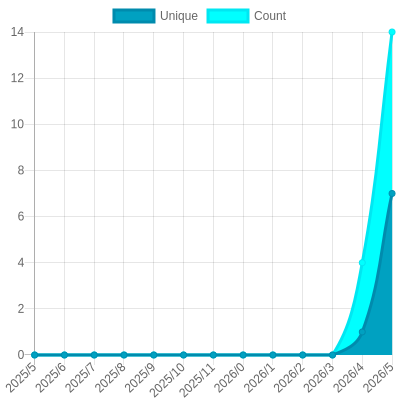
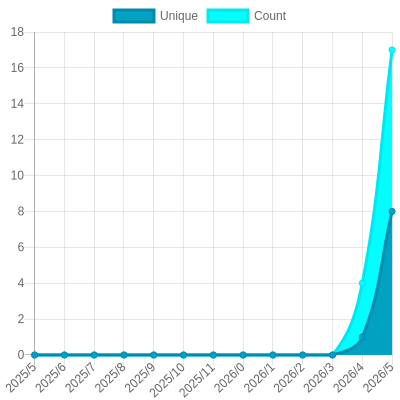
Update views

diff --git a/readme/912692323/year.md b/readme/912692323/year.md
@@ -23,10 +23,10 @@
 			<code>2025/6/1</code>
 		</td>
 		<td>
-			<code>7</code>
+			<code>8</code>
 		</td>
 		<td>
-			<code>14</code>
+			<code>17</code>
 		</td>
 	</tr>
 	<tr>
@@ -164,7 +164,7 @@
 </table>
 
 </details>
-<small><i>Last updated on 2025/6/28 1:24 AM UTC</i></small>
+<small><i>Last updated on 2025/6/28 6:24 AM UTC</i></small>
 
 ## ✂Copy and 📋 Paste
 ### SVG Badge

diff --git a/README.md b/README.md
@@ -117,7 +117,7 @@ The project created and maintained by [gayanvoice](https://github.com/gayanvoice
 	</tr>
 </table>
 
-<small><i>Last updated on 2025/6/28 1:24 AM UTC</i></small>
+<small><i>Last updated on 2025/6/28 6:24 AM UTC</i></small>
 
 ## ✂Copy and 📋 Paste
 ### Total Views Badge

diff --git a/readme/886172486/year.md b/readme/886172486/year.md
@@ -164,7 +164,7 @@
 </table>
 
 </details>
-<small><i>Last updated on 2025/6/28 1:24 AM UTC</i></small>
+<small><i>Last updated on 2025/6/28 6:24 AM UTC</i></small>
 
 ## ✂Copy and 📋 Paste
 ### SVG Badge

diff --git a/readme/893198540/year.md b/readme/893198540/year.md
@@ -164,7 +164,7 @@
 </table>
 
 </details>
-<small><i>Last updated on 2025/6/28 1:24 AM UTC</i></small>
+<small><i>Last updated on 2025/6/28 6:24 AM UTC</i></small>
 
 ## ✂Copy and 📋 Paste
 ### SVG Badge

diff --git a/readme/911202533/year.md b/readme/911202533/year.md
@@ -164,7 +164,7 @@
 </table>
 
 </details>
-<small><i>Last updated on 2025/6/28 1:24 AM UTC</i></small>
+<small><i>Last updated on 2025/6/28 6:24 AM UTC</i></small>
 
 ## ✂Copy and 📋 Paste
 ### SVG Badge

diff --git a/readme/915952192/year.md b/readme/915952192/year.md
@@ -164,7 +164,7 @@
 </table>
 
 </details>
-<small><i>Last updated on 2025/6/28 1:23 AM UTC</i></small>
+<small><i>Last updated on 2025/6/28 6:24 AM UTC</i></small>
 
 ## ✂Copy and 📋 Paste
 ### SVG Badge

diff --git a/readme/977643454/year.md b/readme/977643454/year.md
@@ -164,7 +164,7 @@
 </table>
 
 </details>
-<small><i>Last updated on 2025/6/28 1:23 AM UTC</i></small>
+<small><i>Last updated on 2025/6/28 6:24 AM UTC</i></small>
 
 ## ✂Copy and 📋 Paste
 ### SVG Badge
